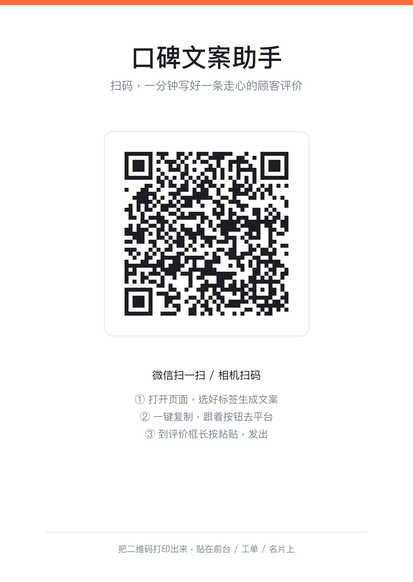
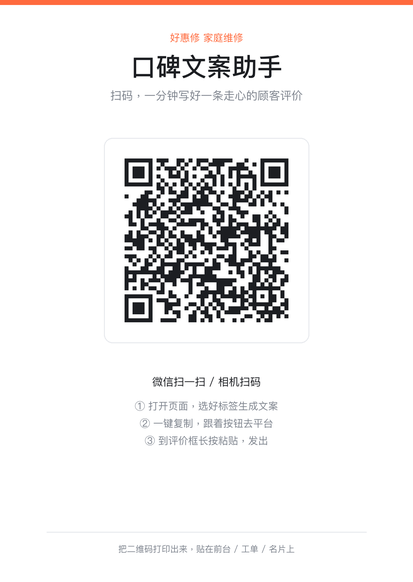
点美团/点评后给出订单评价入口引导（我的→待评价）

Changed region(s): [[0.2906, 0.2474, 0.6973, 0.5567], [0.2615, 0.0309, 0.7264, 0.1856], [0.3196, 0.6186, 0.6683, 0.7732]]

diff --git a/index.html b/index.html
@@ -84,6 +84,8 @@ textarea{resize:vertical;min-height:62px;line-height:1.5}
 .plat em{font-style:normal}
 .plat span{margin-left:auto;font-size:11px;font-weight:400;color:var(--muted);white-space:nowrap}
 .plat.wide{grid-column:1/-1}
+.phint{display:none;font-size:12.5px;color:var(--muted);margin:12px 0 0;line-height:1.8}
+.phint.on{display:block}
 #toast{
   position:fixed;left:50%;bottom:calc(30px + env(safe-area-inset-bottom));transform:translate(-50%,16px);
   background:rgba(20,22,26,.92);color:#fff;padding:11px 20px;border-radius:999px;font-size:14px;
@@ -161,6 +163,7 @@ textarea{resize:vertical;min-height:62px;line-height:1.5}
       <li>到评价框<b>长按 → 粘贴</b>，发出去</li>
     </ol>
     <div class="plats" id="plats"></div>
+    <p class="phint" id="phint"></p>
   </div>
 
   <div class="tip">
@@ -179,9 +182,9 @@ textarea{resize:vertical;min-height:62px;line-height:1.5}
    ========================================================== */
 var SHOP_NAME='好惠修 家庭维修';
 var PLATFORMS=[
-  {name:'大众点评',color:'#FF6633',link:'',home:'https://m.dianping.com/',
+  {name:'大众点评',color:'#FF6633',link:'',order:1,home:'https://m.dianping.com/',
    search:'https://www.dianping.com/search/keyword/1/0_{kw}'},
-  {name:'美团',    color:'#FFC300',link:'https://dpurl.cn/UHpLYdqz',home:'https://i.meituan.com/',
+  {name:'美团',    color:'#FFC300',link:'https://dpurl.cn/UHpLYdqz',order:1,home:'https://i.meituan.com/',
    search:'https://i.meituan.com/s/{kw}'},
   {name:'抖音',    color:'#FE2C55',link:'',home:'https://www.douyin.com/',
    search:'https://www.douyin.com/search/{kw}'},
@@ -434,6 +437,11 @@ function renderPlats(){
       }
       if(url)window.open(url,'_blank','noopener');
       toast(msg+' · 到评价框长按粘贴');
+      var hint=$('#phint');
+      if(hint){
+        if(p.order){hint.textContent='没看到写评价的地方？打开 App →「我的」→「待评价」→ 选本店订单，再长按粘贴。'}
+        hint.classList.toggle('on',!!p.order);
+      }
     };
     box.appendChild(b);
   });

diff --git a/qr/make_qr.py b/qr/make_qr.py
@@ -4,6 +4,7 @@ import segno
 from PIL import Image, ImageDraw, ImageFont
 
 URL = "https://lili3221623902-source.github.io/koubei/"
+SHOP = "好惠修 家庭维修"
 BRAND = (255, 106, 61)
 DARK = (28, 30, 34)
 GREY = (124, 130, 140)
@@ -28,13 +29,14 @@ def center(text, y, font, fill):
 
 # 顶部品牌条
 d.rectangle([0, 0, W, 14], fill=BRAND)
-center("口碑文案助手", 118, f(76, 4), DARK)
-center("扫码，一分钟写好一条走心的顾客评价", 232, f(34, 0), GREY)
+center(SHOP, 92, f(30, 1), BRAND)
+center("口碑文案助手", 146, f(76, 4), DARK)
+center("扫码，一分钟写好一条走心的顾客评价", 262, f(34, 0), GREY)
 
 # 二维码（模块对齐整数，保证清晰）
 MOD, QUIET = 12, 3            # 每个模块像素、静默区模块数
 side = (n + QUIET * 2) * MOD
-x0, y0 = (W - side) // 2, 420
+x0, y0 = (W - side) // 2, 440
 d.rounded_rectangle([x0 - 26, y0 - 26, x0 + side + 26, y0 + side + 26], 26, outline=LINE, width=3)
 for r, row in enumerate(matrix):
     for c, v in enumerate(row):
@@ -70,16 +72,19 @@ S = 1080
 sq = Image.new("RGB", (S, S), "white")
 sd = ImageDraw.Draw(sq)
 sd.rectangle([0, 0, S, 12], fill=BRAND)
+sf = f(24, 1)
+box = sd.textbbox((0, 0), SHOP, font=sf)
+sd.text(((S - (box[2] - box[0])) / 2, 56), SHOP, font=sf, fill=BRAND)
 tf = f(58, 4)
 box = sd.textbbox((0, 0), "口碑文案助手", font=tf)
-sd.text(((S - (box[2] - box[0])) / 2, 66), "口碑文案助手", font=tf, fill=DARK)
+sd.text(((S - (box[2] - box[0])) / 2, 104), "口碑文案助手", font=tf, fill=DARK)
 sub = pif = f(26, 0)
 box = sd.textbbox((0, 0), "扫码写评价 · 一分钟搞定", font=sub)
-sd.text(((S - (box[2] - box[0])) / 2, 146), "扫码写评价 · 一分钟搞定", font=sub, fill=GREY)
+sd.text(((S - (box[2] - box[0])) / 2, 184), "扫码写评价 · 一分钟搞定", font=sub, fill=GREY)
 MOD2 = 15
 side2 = (n + 6) * MOD2
 sx = (S - side2) // 2
-sy = 226
+sy = 258
 for r, row in enumerate(matrix):
     for c, v in enumerate(row):
         if v:
